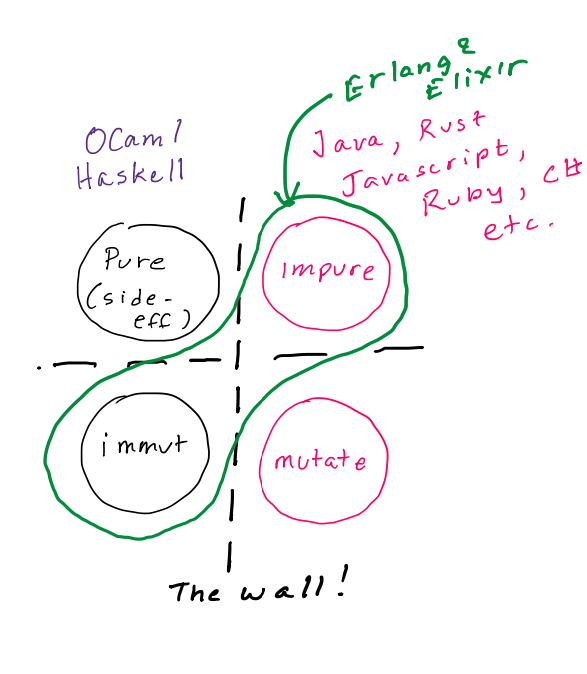
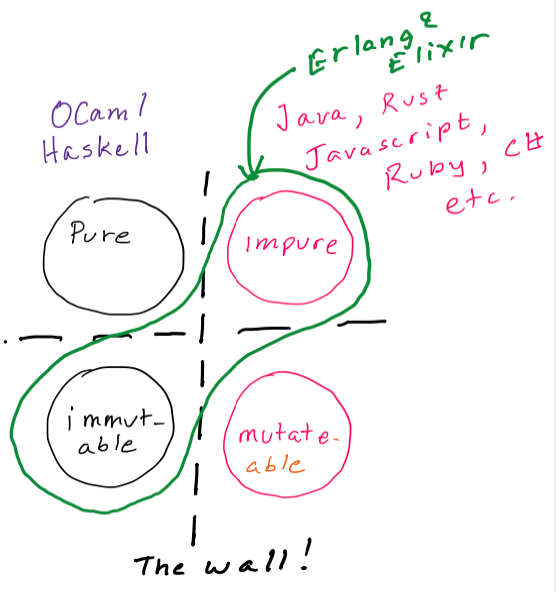
yet another update to try to shorten and simplify

diff --git a/_posts/2021-12-14-functional-programming-is-a-lie.md b/_posts/2021-12-14-functional-programming-is-a-lie.md
@@ -6,144 +6,55 @@
  tags: [Functional Programming, Elixir]
 ---
 
-As more computer languages adopt functional constructs, e.g. closures are now available in Java, C++, etc., it seems pure functional languages have been pushed into a corner. 
+As more computer languages adopt functional constructs it seems *pure* functional languages have been pushed into a corner. Many developers are familar with closures in Javascript, and they are now available in Java, C++, etc., but *pure* functional languages are a bit different - namely they are stricter in the definition of "functional". If functional is good, then why aren't more developers going even farther and start to use pure functional languages like Haskell, OCaml, etc.?
 
-Recently I've even read comments that Pure Functional programming just doesn't work in practice because real computers "don't work that way". By "That way", the point is made that real computers that execute programs have mutatable state, and if you don't have mutatable state then you're just making things very difficult for both execution engines and people who try to comprehend the programs. 
+One suggested reason for thhe lack of adoption is because *pure* functional languages aren't practical, i.e. they are too strict and they don't reflect the "real" (reality) world of computers - real computers have mutable state, and therefore trying to program without mutable state is just a mathematical exercise and also hard for software developers to comprehend.
 
-This all feels very polarizing - some developers feel the need for deeper justifications when choosing a computer language - it can't just be "follow the crowd", or "it's easier to find examples". But do we need to bring _reality_ into the discussion? 
+Why choose a *pure* or *impure* functional language? For many developers it can't just be "follow the crowd", or "it's easier to find examples". But do we need to bring _reality_ into the discussion? 
 
 And are there really only 2 choices? Either we reject mutability and program in a pure functional language, or we just accept mutable reality and join the crowd? 
 
 I've thought about this question sometimes, especially since I started using Elixir (5 years now), when trying to build a mental framework for categorizing languages.
 
-## Pure functional languages **
+# Pure Functional Languages 
 
-In the early days of computer science, a lot of work was done to try to use math to prove program correctness. Think about that - it would mean that when you delivered your program to a customer you could say "this is provably correct so there cannot be any bugs by definition", unlike today when we say "it has 80% test coverage and worked when I tried it" ;) 
+In the early days of computer science, a lot of work was done to try to use math to prove program correctness. Think about that - it would mean that when you delivered your program to a customer you could say "this is provably correct so there cannot be any bugs by definition", unlike today when we say "it has 80% test coverage and worked when I tried it" ;)  "testing can show the presence of bugs but not their absence" - Dijkstra
 
 There's no exact definition of fuctionally pure purity, but generally it's these things:
-* Immutable state, 
-* No side-effects (substitution) 
+* Immutable state / data, 
+* No side-effects 
 * First class functions (functions can treated as data)
 * etc. 
 
-Javascript is a functional language. Why isn't it a "pure" functional language? 
+Javascript is a functional language. Why isn't it a *pure* functional language? 
 
-* Javascript fails purity because it allows for mutation of state. Actually, most mainstream languagse fail for this same reason: Java, Go, C#, Rust, Python, Ruby, etc. However, almost all of these languages have, or have recently, started to use a lot more functional and immutable constructs
-* Rust fails because it has unsafe modes (you might argue that if you don't use unsafe then it is safe, but that's besides the point - we're talking about languages not usages)
-* Erlang and Elixir fail this test because they are impure (they allow side effects)
+* Javascript fails purity because it allows for mutation of state and side effects - most mainstream language fail for this same reason: Java, Go, C#, Rust, Python, Ruby, etc. 
+* Rust fails pureity because it has unsafe modes and allow side effects
+* Erlang and Elixir fail this test because they allow side effects
 
-So are there only two categories? Pure functional languages, e.g. Haskell, OCaml, and everything else that can do anything functional (Java, Rust, C++, Ruby, Javascript, etc.)?
+What is immutable data and what is a side effect?
 
-Read on to discover the shocking truth! ;)
+## Functional Constructs 
 
-## Functional languages and Pure functional languages
-
-Take a look at this list:
-
-https://en.wikipedia.org/wiki/List_of_programming_languages_by_type#Pure
-
-The list of functional languages has only two categories: *Pure* and *impure*.
-
-![Elixir]({{ site.url }}/img/languages.png)
-
-The list of "Functional Languages", or languages that have functional constructs is very long nowadays! However, the list of *pure* functional languages is a lot shorter, e.g. Haskell, Ocaml, etc.
-
-Where in this list are the _Languages with immutable data_? Is mutation/immutable just a minor detail? ! ?
-
-I even tried searching Stack Overflow (I use it very seldomly nowadays) - "Computer Languages with Only Immutability". Seems most people misunderstood the question, __or fail to believe it is possible to understand that there even is such a category__. 
-
-Anyways, there are at least a couple of widely used languages that have immutability _only_. _The key word here is the word "only", which means "there is no unsafe mode, there is only immutable"._
-* Haskell
-* Erlang / Elixir
-
-Here's some drawings I made that focuses on only Pure and Impure as defined by 1) Purity (no side effects), and 2) Mutable (or immutable) data:
-
-### Pure and Impure
-This is the categorization on Wikipedia:
-* "Pure" = No side effects, and "Impure" = side effects
-* "Immutable" = No mutation of data, "Mutate" = allows mutation of data
-
-![Elixir]({{ site.url }}/img/pure_impure.png)
-
-But where is Erlang and Elixir in this drawing???
-
-### Elixir and Erlang 
-
-Elixir and Erlang are impure, yet they do have immutable (only) data.
-
-![Elixir]({{ site.url }}/img/erlang_middle.png)
-
-## Erlang and Elixir: Impure, yet immutable
-
-![Elixir]({{ site.url }}/img/erlang_category.png)
-
-Here's what the list of functional languages should look like:
-* Pure functional languages with immutable data
-* Impure functional languages with immutable data
-* Functional languages
-
-## But "Mutation is a reality, the correct approach is disciplined mutation"
-
- I can hear a thousand voices calling out that: Yes, but Rust, Clojure, etc., have immutable data constructs and that if you just keep your mutations in a box then you're ok.
- 
-"Mutation is a reality, the correct approach is disciplined mutation. "https://news.ycombinator.com/item?id=18044656
-
-Mutation is like a virus and has severe consequences in a language: if you allow any possibility to mutate data in any way (like "unsafe" mode) then the language looses the ability to provide certain guarantees as we will see in the next sections (and add threads to mutation and you have a recipe for nondeterminism) - https://www2.eecs.berkeley.edu/Pubs/TechRpts/2006/EECS-2006-1.pdf
-
-The main issue here is that language designers often try to solve _all problems_ with a single language. Erlang and Elixir have a different answer: __If you need mutation use another language__. Seriously, that's not that different from "box mutation in unsafe mode" and for the record: most programs don't need mutability for anything other than _performance_, and that performance gained by using mutation is dimished when you consider highly parallel and concurrent systems (which is pretty much everything nowadays). https://tomjoro.github.io/2017-01-31-world-changed/
-
-# State
-
-What is mutable state/data (or immutable) anyways and how does it relate to the real world?
-
-## Mutable state/data 
+### Mutation 
 I put 99 beers on the shelf. The shelf now has 99 beers. Hence, the real world has state.
 
 In programming terms I take a variable "x" to be the shelf, and I give x a value of 99. If I take one away then x is 98 beers. The shelf has state and is mutable.
 
 This is the same way computer memory works. I store value in a register or in a memory location and it's stays there. 
 
-## Immutable state/data
+Does the real world have mutable state? Certainly seems like the mutable state matches our _view_ of the world better and I can't argue with that -- this is the "pure functional programming is a lie" bit.
+
+But pure functional programming does match mathematics. That means that it's easier to prove what happened in a mathematical and conclusive fashion. In pure functional languages beers don't just disappear - there's a reason that can be traced! (very useful!), i.e. data is immutable.
+
+### Immutable 
 Pure functional languages don't allow mutation. In our beer analogy, the shelf with 99 beers can never be anything else. If you want a shelf with 98 beers, you'll need a _new_ shelf because the shelf with 99 beers _cannot_ mutabe changed (i.e. mutate).
 
 This seems impractical (think of the garbage collection!), and difficult to understand. 
 
 In a pure functional language this concept of immutable state is taken even one step further - we need to know how the state was changed. In a pure functional language state changes are realized with functions which can be seen and reduced - which can get very complex as the entire state of the world (the program) needs to be traceable to every action that caused a change. 
 
-##  Real computers / real world
-
-Does the real world have mutable state? Certainly seems like the mutable state matches our _view_ of the world better and I can't argue with that -- this is the "functional programming is a lie" bit.
-
-But pure functional programming does match mathematics. That means that it's easier to prove what happened in a mathematical and conclusive fashion. In pure functional languages beers don't just disappear - there's a reason that can be traced! (very useful!).
-
-I don't know why it's important for a programming language to actually represent how they are executed in physical computers. As far as I am concerned our goal as programmers is primarily to write programs that both humans and computers can understand and that work reliably.
-
-# Mutation is an evil
-
-Why all the concern about mutation? I thought mutation is easier to understand? It might might be on the surface, but let's go a bit deeper.
-
-Reliable programming languages (and even languages that have mutable constructs) use immutability to make programs easier to understand for both humans and computers.
-* C++'s standard library uses immutability for improving reliability and concurrency
-* Clojure uses it for the same reason
-* Rust uses it for the same reason
-
-For a primer: here's an example of immutable in action in Elixir:
-```
-  map = %{test: 1}
-  Map.put_new(map, :fun, 2)
-  IO.inspect map   
-
-  # Output: %{test: 1} -- the value of map did not change, but rather 'Map.put_new' returned a new Map (which we stupidly ignored) 
-```
-
-If our goal was to add something to a map, then we need to do this:
-```
-  map = %{test: 1}
-  map1 = Map.put_new(map, :fun, 2)
-  IO.inspect map1   
-
-  # Output: %{test: 1, fun: 2} -- Note, we could have reused the name "map", but don't confuse that with mutation 
-```
+### Diagram
 
 Making this discussion as simple as I can: 
 
@@ -153,84 +64,136 @@ Making this discussion as simple as I can:
 
 In this drawing, x had an assigned value of 25 and after calling f(x) the output was 5. Possibly this function computes the square root, but we can't know because it's a black box. 
 
-* In a *pure functional language*, x being 25 will always give 5 as an output. (in fact the whole thing can be susbtituted for the output)
-* In a *"impure" functional language* (one that allows side effects), sometimes when I put 25 in, the output might be 5 and maybe other times it comes out as 3.1415. This is called a having side effects. (for example getTime() will always yeild a different result)
-* In a *impure language with mutation*, sometimes 25 comes out 5 or 3.1415 and sometimes x is might somewhat magically change to something like 52.
+* In a pure functional language, x being 25 will always give 5 as an output. (in fact the whole thing can be substituted for the output)
+* In a impure functional language, i.e. one that allows side effects, sometimes when I put 25 in, the output might be 5 and maybe other times it comes out as 3.1415. This is called a having _side effects_. (for example getTime() will always yeild a different result)
+* In a impure functional language that allows *mutation* sometimes 25 comes out 5 or 3.1415 and sometimes x is might somewhat magically change to something like 52.
 
 Of these three cases, *mutation* is the hardest one to understand and compose because the black box can no longer be treated as a black box - it can affect the world outside the box. We must look into the black box to understand what it did to x (or to see if it will do something to x).
 
+# Programming Language Classifications
+
+Take a look at this list:
+
+https://en.wikipedia.org/wiki/List_of_programming_languages_by_type#Pure
+
+The list of functional languages has only two categories: *Pure* and *Impure*.
+
+![Elixir]({{ site.url }}/img/languages.png)
+
+The list of "Functional Languages", or languages that have functional constructs is very long nowadays! However, the list of *pure* functional languages is a lot shorter, e.g. Haskell, Ocaml, etc.
+
+Where is the category: _Languages with immutable data_? Is mutation/immutable just a minor detail? ! ? I even tried searching Stack Overflow - "Computer Languages with Only Immutability". Seems most developers answers misunderstood the question, __or fail to believe it is possible to understand that there even is such a category__. 
+
+There are at least a couple of widely used languages that have immutability _only_. _The key word here is the word "only", which means "there is no unsafe mode, there is only immutable"._
+* Haskell
+* Erlang / Elixir
+
+Here's some drawings I made that focuses on only Pure and Impure as defined by 1) Purity (no side effects), and 2) Mutable (or immutable) data:
+
+## Pure and Impure
+This is the categorization on Wikipedia:
+* "Pure" = No side effects, and "Impure" = side effects
+* "Immutable" = No mutation of data, "Mutate" = allows mutation of data
+
+![Elixir]({{ site.url }}/img/pure_impure.png)
+
+But where is Erlang and Elixir in this drawing???
+
+## Elixir and Erlang 
+
+Elixir and Erlang are impure, yet they do have immutable (only) data. You get an interesting cross category here:
+
+![Elixir]({{ site.url }}/img/erlang_middle.png)
+
+Erlang and Elixir: Impure, yet Immutable.
+
+Here's what the list of functional languages should look like:
+* Pure functional languages with immutable data
+* Impure functional languages with immutable data
+* Functional languages
+
+## But "Mutation is a reality, the correct approach is disciplined mutation"
+
+ I can hear a thousand developer's voices calling out that: Yes, but Rust, Clojure, etc., have immutable data constructs and that if you just keep your mutations in a box then you're ok.
+ 
+"Mutation is a reality, the correct approach is disciplined mutation. "https://news.ycombinator.com/item?id=18044656
+
+Mutation is like a virus and has severe consequences in a language: if you allow any possibility to mutate data in any way (like "unsafe" mode) then the language looses the ability to provide certain guarantees as we will see in the next sections (and add threads to mutation and you have a recipe for nondeterminism) - https://www2.eecs.berkeley.edu/Pubs/TechRpts/2006/EECS-2006-1.pdf
+
+The main issue here is that language designers often try to solve _all problems_ with a single language. Erlang and Elixir have a different answer: __If you need mutation use another language__.  Seriously, that's not that different from "box mutation in unsafe mode" - it's just that the boxing has to be absolutely solid. Also, the justification for having mutability is often for _performance_ reasons, and that performance gained by using mutation is dimished when you consider highly parallel and concurrent systems (which is pretty much everything nowadays). https://tomjoro.github.io/2017-01-31-world-changed/
+
 # The Real World
 
-When I was first learning Elixir I had to find a deep justification for immutability. I could turn to Computer Science (everything is expressible with recursion) or math for justification. But what about the real world and real computers? If I looked at the problem it really seemed that the real world had mutation. And then I realized what I was missing.
+Immutability - certainly Computer Science (everything is expressible with recursion) and math have it as a central concept, but what about the real world of computers?
 
-From https://www.quora.com/Is-there-anything-you-don-t-like-about-Functional-Programming/answer/Jussi-Raunio?ch=10&share=4a170b91&srid=lM1b
-"At fundamental level, computers are state machines and they can only represent computations through global state changes"
+Are computers just _state machines_ that represent computation through _global state_ changes?  https://www.quora.com/Is-there-anything-you-don-t-like-about-Functional-Programming/answer/Jussi-Raunio?ch=10&share=4a170b91&srid=lM1b
 
-I disagree, rather I think global state in computers is a myth! When is the last time you used a computer that wasn't connected to a network, or one that didn't have multiple cores, I/O, or a GPU, etc. What's the missing piece?
+Real computers:
+* indeed have mutable memory,
+* have global state, well sort of - computers are connected to networks, have multiple cores, caches, I/O, GPU, etc. so how can global state exist?
+
+It really seems that the real world has mutation. 
+
+Until I realized what was missing from the comparison.
 
 ## Time
-Remember the beer analogy, i.e. that because the beer shelf had state, it follows that this is a reflection of the real world:  
-
-__The real world is actually immutable.__
-
-How can this be? 
 
 __We forgot to consider _time_ in our world view - and time does exist!__
 
+__The real world is actually immutable.__
+
 The real world is immutable when viewed at any point in time
-* the past can’t be changed  
+* the past can’t be changed 
 * state is only definable by observation (at a time)
 
-State arises from recursion in time. When you look closely at how computer memories actually work, you can see this recursion _even at the level of the logic circuits that implement computer memory_
+State arises from recursion in time. 
 
-And this is confirmed historically - original computer memories were things like mecury delay lines, even CRTs, as recursed and repeatedly played back a signal put into them. In the past this was more outwardly apparent, but now this recursion is hidden in logic circuits.
+There is nothing strange about defining state this way, in fact most computer memories work exactly this way: you can see this recursion _at the level of the logic circuits that implement computer memory_ 
 
- Here's a logic diagram of a flip-flop. A flip flop is a 1 bit computer memory and is how RAM is built in a _real_ computer.
+Here's a logic diagram of a flip-flop. A flip flop is a 1 bit computer memory and is how RAM is built in a _real_ computer.
 
 ![Elixir]({{ site.url }}/img/flipflop.png)
 
-You don't have to understand this diagram, but notice how the lines feedback on themselves. This is recursion in time. There's all the proof you need: state arises from recursion in time :) . 
-
-And since computer memory is built with recursion, I don't see that computers have any difficulty in executing this.
+You don't have to understand this diagram, but notice how the lines feedback on themselves. Once you set the state on one of the lines, it recurses holding that state until the state until it is changed. And original computer memories were things like mercury delay lines, even CRTs, as recursed and repeatedly played back a signal put into them. In the past this was more apparent, but now this recursion is hidden in logic circuits.
 
 The fact that time is real has further implications. 
 
-## Distribution 
+## Distribution = No Global State
 
-If time is real, it also prevents us from knowing the state of the entire world at any point in time. We can only know our own local state (or nearby state). This is distribution and the source of side effects.
+If time is real then it also prevents us from knowing the state of the entire world at any point in time. We can't have a global state, but we know our a local state within some reference (a world).
 
-If you accept distribution then you just have to accept side-effects, because state is going to change in other "parts" for reasons unknown (who drank my beer?). In the beer example, you have to go to the shelf to check for beers as it is impossible for you to know without checking.
 
-Introducing side effects means you can no longer use mathematical descriptions of the entire system (relativity - very Einstein)! What are these "parts", or local references?
+What does this picture look like: 
 
-In the Erlang/Elixir these independent "parts" that each have their own local and immutable state are *processes*. Processes have observable state, which can be observed from the outside by sending a message to the process and asking it for the state and the process in turn sending you a response. Each process is a consistent world unto itself and has nothing shared with other processes.
+![Elixir]({{ site.url }}/img/erlang_category.png)
 
-This matches the real world - If you can’t know what’s happening somewhere else - then state must be communicated to be known. _This is especially true nowadays as computing has become increasingly distributed and parallel even on a small scale. For example, in multi-core computers each core has it's own dedicated cached memory and so getting a value from another core requires requesting it and copying._
+This is where side effects come from - things changes outside our local reference even though state might be immutable inside a "world".
 
-The nice thing about this is that processes can't interfere with other processes by definition, and hence can be cleanly terminated at any time. This in turn guarantees that the system as a whole can continue to run predictably regardless of the failure of individual parts. Programming languages that have shared mutable state, at any level and through any mechanism, cannot provide this guarantee. The only way to provide this guarantee is completely ban shared mutatable state (processes can only communicate by messaging).
+So, even though each world internally uses immutable state, if viewed from the outside, i.e. observed, then it has state. This is one of things that confuses people about Elixir - it seems there is state everywhere, but at the same time data is immutable!
 
-In a way, Elixir and Erlang processes work similar to how an operating system works: there are processes that are isolated and have their own memory - that's why computers crash less often than our software! But Erlang goes a lot further and introduces consistent communication concepts, error handling, location (network) transparency, etc., resource control, etc.
+In the Erlang/Elixir these independent "worlds" that each have their own local and immutable state are *processes*. Processes have observable state, which can be observed from the outside by sending a message to the process and asking it for the state and the process in turn sending you a response. Each process is a consistent world unto itself and has nothing shared with other processes.
+
+This also matches the real world - you can’t know what’s happening somewhere else - then state must be communicated to be known. _This is especially true nowadays as computing has become increasingly distributed and parallel even on a small scale. For example, in multi-core computers each core has it's own dedicated cached memory and so getting a value from another core requires requesting it and copying._
+
+Processes can't interfere with other processes by definition, and hence can be cleanly terminated at any time. This in turn guarantees that the system as a whole can continue to run predictably regardless of the failure of individual parts. Programming languages that have shared mutable state, at any level and through any mechanism, cannot provide this guarantee. The only way to provide this guarantee is completely ban shared mutatable state (processes can only communicate by messaging).
 
 # Is Pure Functional Programming a Lie?
 
-Back to the original question: Is pure functional programming a lie? Saying pure functional programming is a lie is like saying math is a lie. It's not a lie, but it doesn't always map well to the real world of computers -  but that's not because of immutability, but instead stems from not taking *time* and *distribution* into account.
+Back to the original question: Is pure functional programming a lie? Saying pure functional programming is a lie is like saying math is a lie. It's not a lie, but it doesn't always map well to the real world of computers -  but that's not because of immutability, but instead stems from not taking *time* and *distribution* into account. 
 
 # Elixir's Category 
 
-There is some middle ground, a category, between *pure-functional languages* and *impure languages with mutable state* -- and that middleground is a category that Elixir owns. I belive this is what drives the continued growth of Elixir. Elixir is not a "solve all problems" language, but it does work efficiently in more situations that many developers ever thought possible.
+There is some middle ground, a category, between *pure-functional languages* and *impure functional languages* -- and that middleground is a category that Elixir owns and I belive this is one factor that drives the continued growth of Elixir. Elixir is not a "solve all problems" language, but it does work efficiently in more situations that many developers thought possible.
 
-Giving this category a name is difficult: is it "impure functional with distrubted and immutable state" or "functional, dynamic, safe language", or ?. How about just plain "Reliable"?
+Giving this category a name is difficult: is it "impure functional with distributed and immutable state" or "functional, dynamic, safe language", or ?. How about a "Reliable Language"?
 
 _How is reliability defined? Reliable computing is correct functioning even if individual hardware or software components fail for any reason. The definition also includes secure computing which is about intentional attaks on your system._
 
 Erlang (and hence Elixir) and the BEAM virtual machine that it runs on, first and foremost goal is to be reliable. Every decision about the language (and BEAM execution environment) as it evolved has prioritized having reliability as the most important criteria. 
-* Simple code is reliable code because people understand it
-* Imperative code is simple to understand  (https://tomjoro.github.io/2021-12-30-elixir-doesnt-look-very-functional/)
-* Immutability is simpler and can be location transparent
+* Immutable data is safer, especially in a concurrent environment
+* Processes make writing code with immutable data more practical and simple  - (https://tomjoro.github.io/2021-12-30-elixir-doesnt-look-very-functional/)
 
-Many other languages try to be fast and versatile at the detriment of reliability, and many functional languages even have escape hatches for programmers who dare to use unsafe features (usually to get more performance). But prioritizing reliability actually works in practice: Elixir it is fairly fast, extremely fair, quite versatile, scalable, easy to undestand and most importantly reliable. 
-
-
+Prioritizing reliability actually works in practice: Elixir it is consistently fast (not the fastest), extremely fair, quite versatile (not the most versatile), scalable, easy to undestand and develop with, and most importantly reliable. 
 
 # Disclaimer
 
